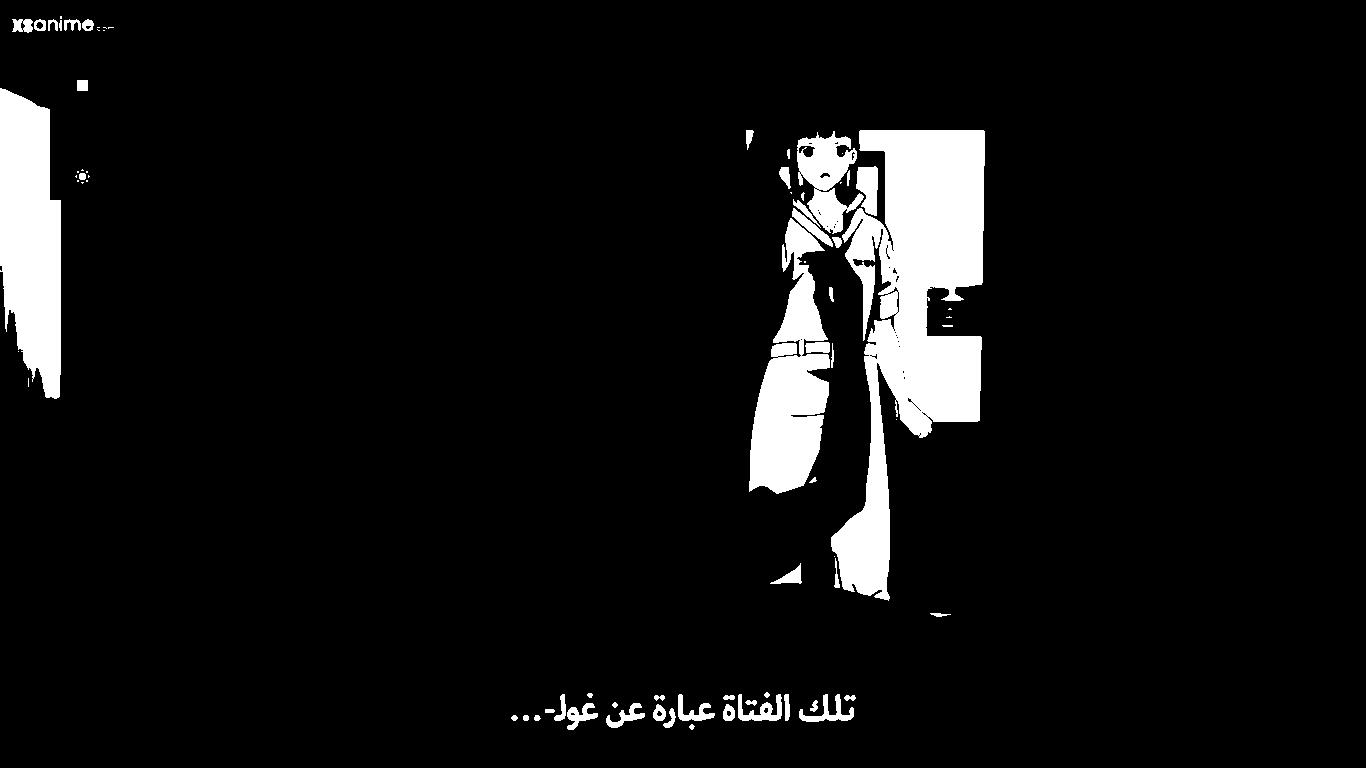
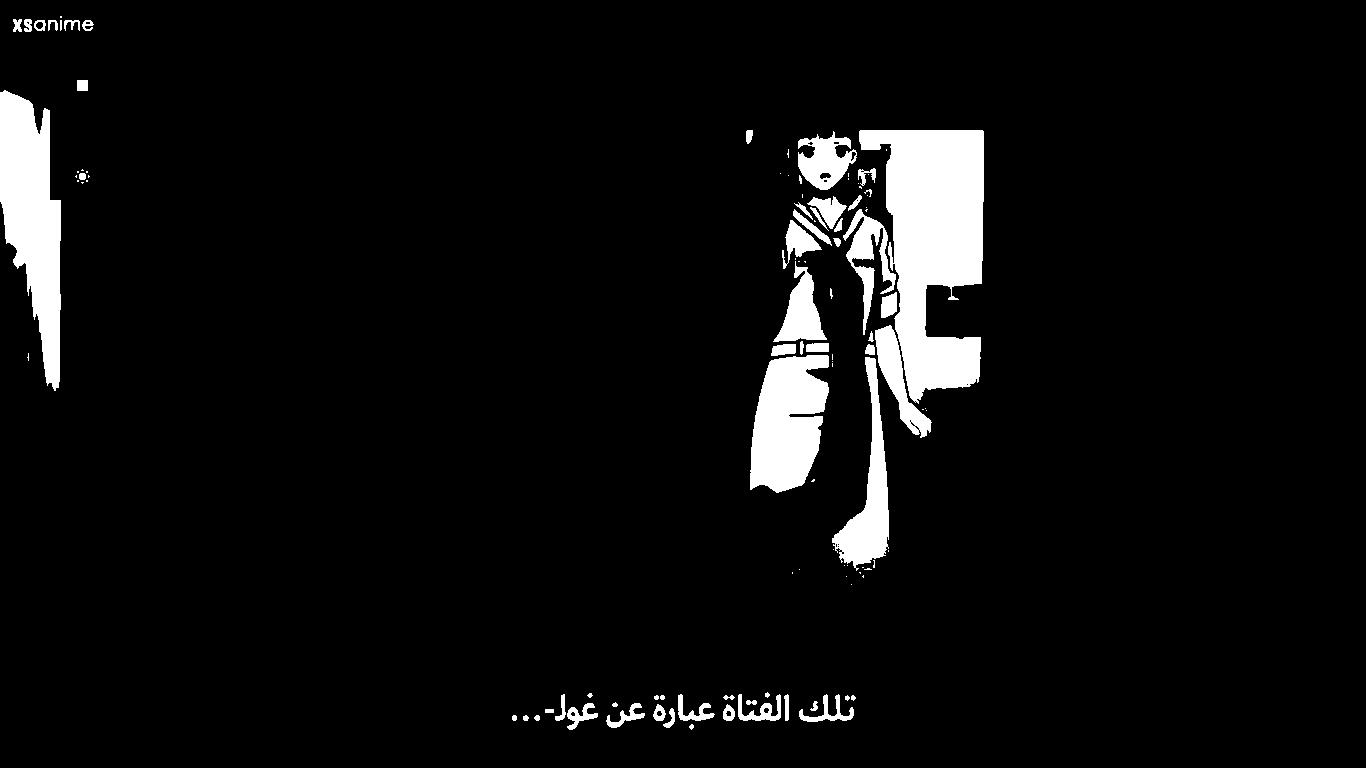
Made changes on Segmentation and processing files and i modified the main file.

diff --git a/Segmentation.py b/Segmentation.py
@@ -8,6 +8,15 @@ def Thresholding(img):
     _, th = cv2.threshold(img_gray, t, 255, cv2.THRESH_BINARY)
     return th
 
+def Adaptive_Thresholding(img):
+    """Apply adaptive thresholding."""
+    grey = cv2.cvtColor(img, cv2.COLOR_BGR2GRAY)
+    block_size = st.slider("Block Size (odd number)", 3, 51, 11, step=2)
+    c_value = st.slider("C (constant subtracted)", 0, 20, 2)
+    adaptive = cv2.adaptiveThreshold(grey, 255, cv2.ADAPTIVE_THRESH_GAUSSIAN_C, 
+                                     cv2.THRESH_BINARY, block_size, c_value)
+    return adaptive
+
 def Otsu_Segmentation(img):
     """Automatically segment image using Otsu's method."""
     gray = cv2.cvtColor(img, cv2.COLOR_BGR2GRAY)
@@ -25,4 +34,46 @@ def Canny(img):
     img_gray = cv2.cvtColor(img, cv2.COLOR_BGR2GRAY)
     a=cv2.Canny(img_gray, threshold1, threshold2)
     return a
+
+def Watershed_Segmentation(img):
+    """Use watershed algorithm for precise segmentation of overlapping objects."""
+    gray = cv2.cvtColor(img, cv2.COLOR_BGR2GRAY)
+    _, binary = cv2.threshold(gray, 0, 255, cv2.THRESH_BINARY + cv2.THRESH_OTSU)
+    
+    # Noise removal
+    kernel = np.ones((3, 3), np.uint8)
+    opening = cv2.morphologyEx(binary, cv2.MORPH_OPEN, kernel, iterations=2)
+
+    # Sure background
+    sure_bg = cv2.dilate(opening, kernel, iterations=3)
+
+    # Sure foreground
+    dist_transform = cv2.distanceTransform(opening, cv2.DIST_L2, 5)
+    _, sure_fg = cv2.threshold(dist_transform, 0.7 * dist_transform.max(), 255, 0)
+
+    # Unknown region
+    sure_fg = np.uint8(sure_fg)
+    unknown = cv2.subtract(sure_bg, sure_fg)
+
+    # Marker labelling
+    _, markers = cv2.connectedComponents(sure_fg)
+    markers += 1
+    markers[unknown == 255] = 0
+
+    img_color = img.copy()
+    markers = cv2.watershed(img_color, markers)
+    img_color[markers == -1] = [255, 0, 0]  # Mark boundaries in red
+
+    return img_color
+
+def Kmeans_Segmentation(img):
+    """Segment image using K-means clustering."""
+    K = st.slider("Number of segments (K):", 2, 10, 4)
+    Z = img.reshape((-1, 3))
+    Z = np.float32(Z)
+    criteria = (cv2.TERM_CRITERIA_EPS + cv2.TERM_CRITERIA_MAX_ITER, 10, 1.0)
+    _, labels, centers = cv2.kmeans(Z, K, None, criteria, 10, cv2.KMEANS_RANDOM_CENTERS)
+    centers = np.uint8(centers)
+    segmented_img = centers[labels.flatten()].reshape((img.shape))
+    return segmented_img
 

diff --git a/main.py b/main.py
@@ -75,12 +75,6 @@ def Pre_Processing():
             out = processing.Gaussian_Filter(img)
         elif option == "Resize":
             out = processing.Resize_Image(img)
-        elif option == "Canny_edge_detection":
-            out = processing.Canny_edge_detection(img)
-        elif option == "Thresholding":
-            out = processing.Thresholding(img)
-        elif option == "Adaptive_Thresholding":
-            out = processing.Adaptive_Thresholding(img)
         elif option == "Histogram_Equalization":
             out = processing.Histogram_Equalization(img)
         elif option == "Sharpening":
@@ -94,13 +88,19 @@ def segmentation():
     img = load_selected_image(saved_images, key="segmentation_image")
     if img is not None:
         show_image(img, "Original Image")
-        option = st.radio("Segmentation Method", ["Threshold", "Sobel Filter", "Canny Filter"])
+        option = st.radio("Segmentation Method", ["Threshold", "Adaptive_Threshold", "Sobel Filter", "Canny Filter", "Watershed_Segmentation", "Kmeans_Segmentation"])
         if option == "Threshold":
             out = Segmentation.Thresholding(img)
+        elif option == "Adaptive_Threshold":
+            out = Segmentation.Adaptive_Thresholding(img)
         elif option == "Sobel Filter":
             out = Segmentation.Sobel(img)
         elif option == "Canny Filter":
             out = Segmentation.Canny(img)
+        if option == "Watershed_Segmentation":
+            out = Segmentation.Watershed_Segmentation(img)
+        if option == "Kmeans_Segmentation":
+            out = Segmentation.Kmeans_Segmentation(img)
         st.image(out, use_column_width=True)
         create_download_button(out, f"{option.lower().replace(' ', '_')}.jpg", "Download")
 

diff --git a/processing.py b/processing.py
@@ -24,30 +24,6 @@ def Resize_Image(img):
     resized = cv2.resize(img, (width, height))
     return cv2.cvtColor(resized, cv2.COLOR_BGR2RGB)
 
-def Canny_edge_detection(img):
-    """Apply Canny edge detection."""
-    threshold1 = st.slider("Canny Threshold 1", 50, 300, 100)
-    threshold2 = st.slider("Canny Threshold 2", 50, 300, 200)
-    grey = Con_to_grey(img)
-    edges = cv2.Canny(grey, threshold1, threshold2)
-    return edges
-
-def Thresholding(img):
-    """Apply binary thresholding."""
-    grey = Con_to_grey(img)
-    thresh_val = st.slider("Threshold Value", 0, 255, 127)
-    _, thresh = cv2.threshold(grey, thresh_val, 255, cv2.THRESH_BINARY)
-    return thresh
-
-def Adaptive_Thresholding(img):
-    """Apply adaptive thresholding."""
-    grey = Con_to_grey(img)
-    block_size = st.slider("Block Size (odd number)", 3, 51, 11, step=2)
-    c_value = st.slider("C (constant subtracted)", 0, 20, 2)
-    adaptive = cv2.adaptiveThreshold(grey, 255, cv2.ADAPTIVE_THRESH_GAUSSIAN_C, 
-                                     cv2.THRESH_BINARY, block_size, c_value)
-    return adaptive
-
 def Histogram_Equalization(img):
     """Apply histogram equalization (greyCon_to_grey only)."""
     grey = Con_to_grey(img)
